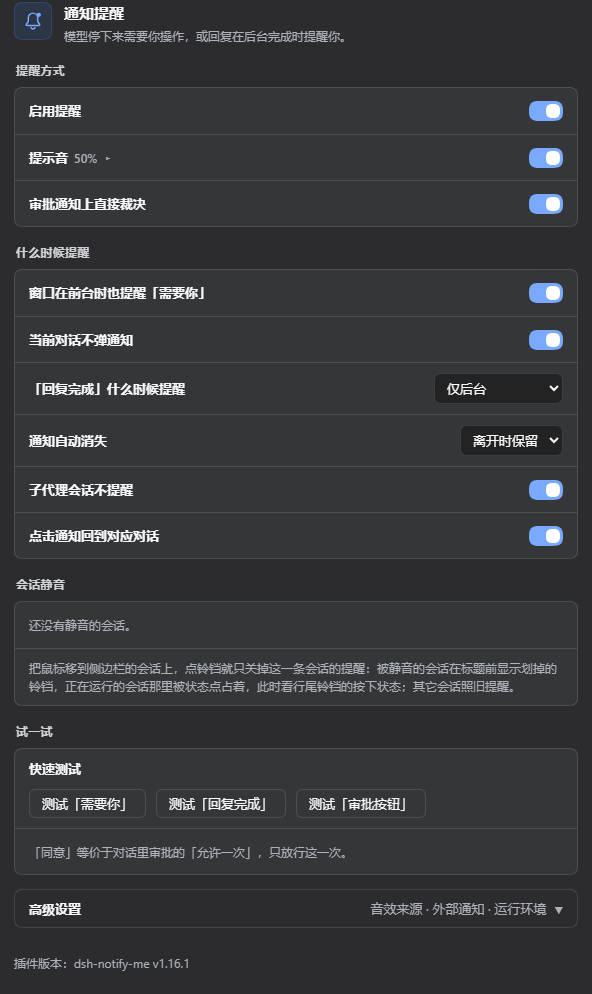
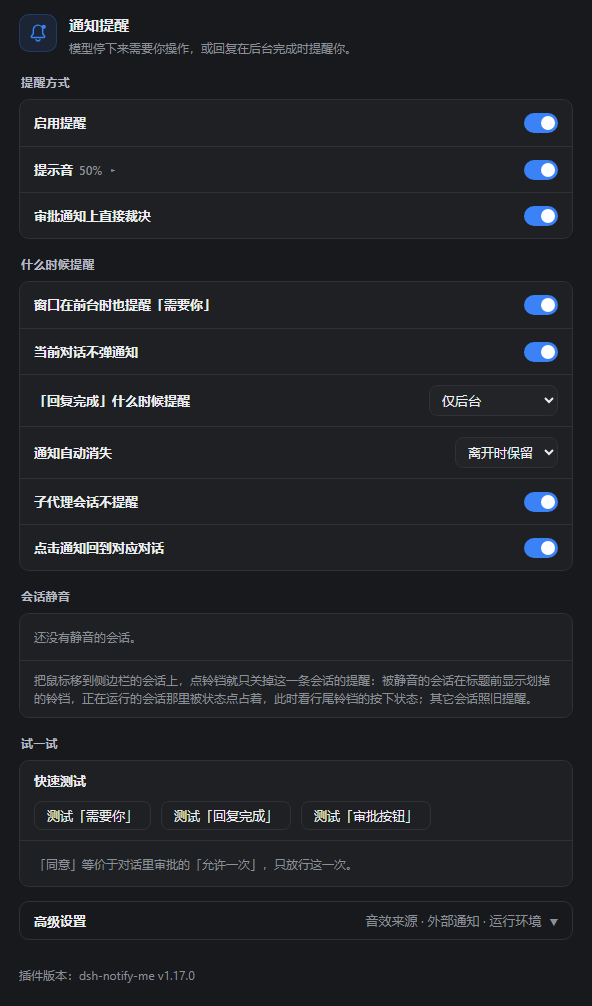
docs: re-shoot the settings screenshots at 1.17.0
The two settings previews still showed the 1.16.1 footer line. Re-rendered both from the real settings component (headless Edge, repo's own lib/client.js, host dark theme tokens, notification permission and worker bridge faked as granted) so the panel matches what ships. The panel itself is unchanged; only the version line in the footer moved.

docs/README.md: 592x994 -> 592x1006 and 592x1012 -> 592x1024, with the capture version noted in the table so a future host redesign is easier to spot.

diff --git a/docs/README.md b/docs/README.md
@@ -19,8 +19,8 @@ README 只保留这两节的摘要与链接，完整内容在对应的 `.md` / `
 
 | 文件 | 尺寸 | 内容 |
 | --- | --- | --- |
-| `settings-zh.png` | 592×994 | 中文设置页完整面板 |
-| `settings-en.png` | 592×1012 | 英文设置页完整面板 |
+| `settings-zh.png` | 592×1006 | 中文设置页完整面板（1.17.0） |
+| `settings-en.png` | 592×1024 | 英文设置页完整面板（1.17.0） |
 | `notify-toast.png` | 593×239 | Edge 里的普通通知，不含审批按钮 |
 
 README 用的是 `raw.githubusercontent.com` 绝对地址，换图后 Markdown 里的链接不用改。`screenshots.json` 是提交插件市场时给的一套图列表，换图时一并同步。
